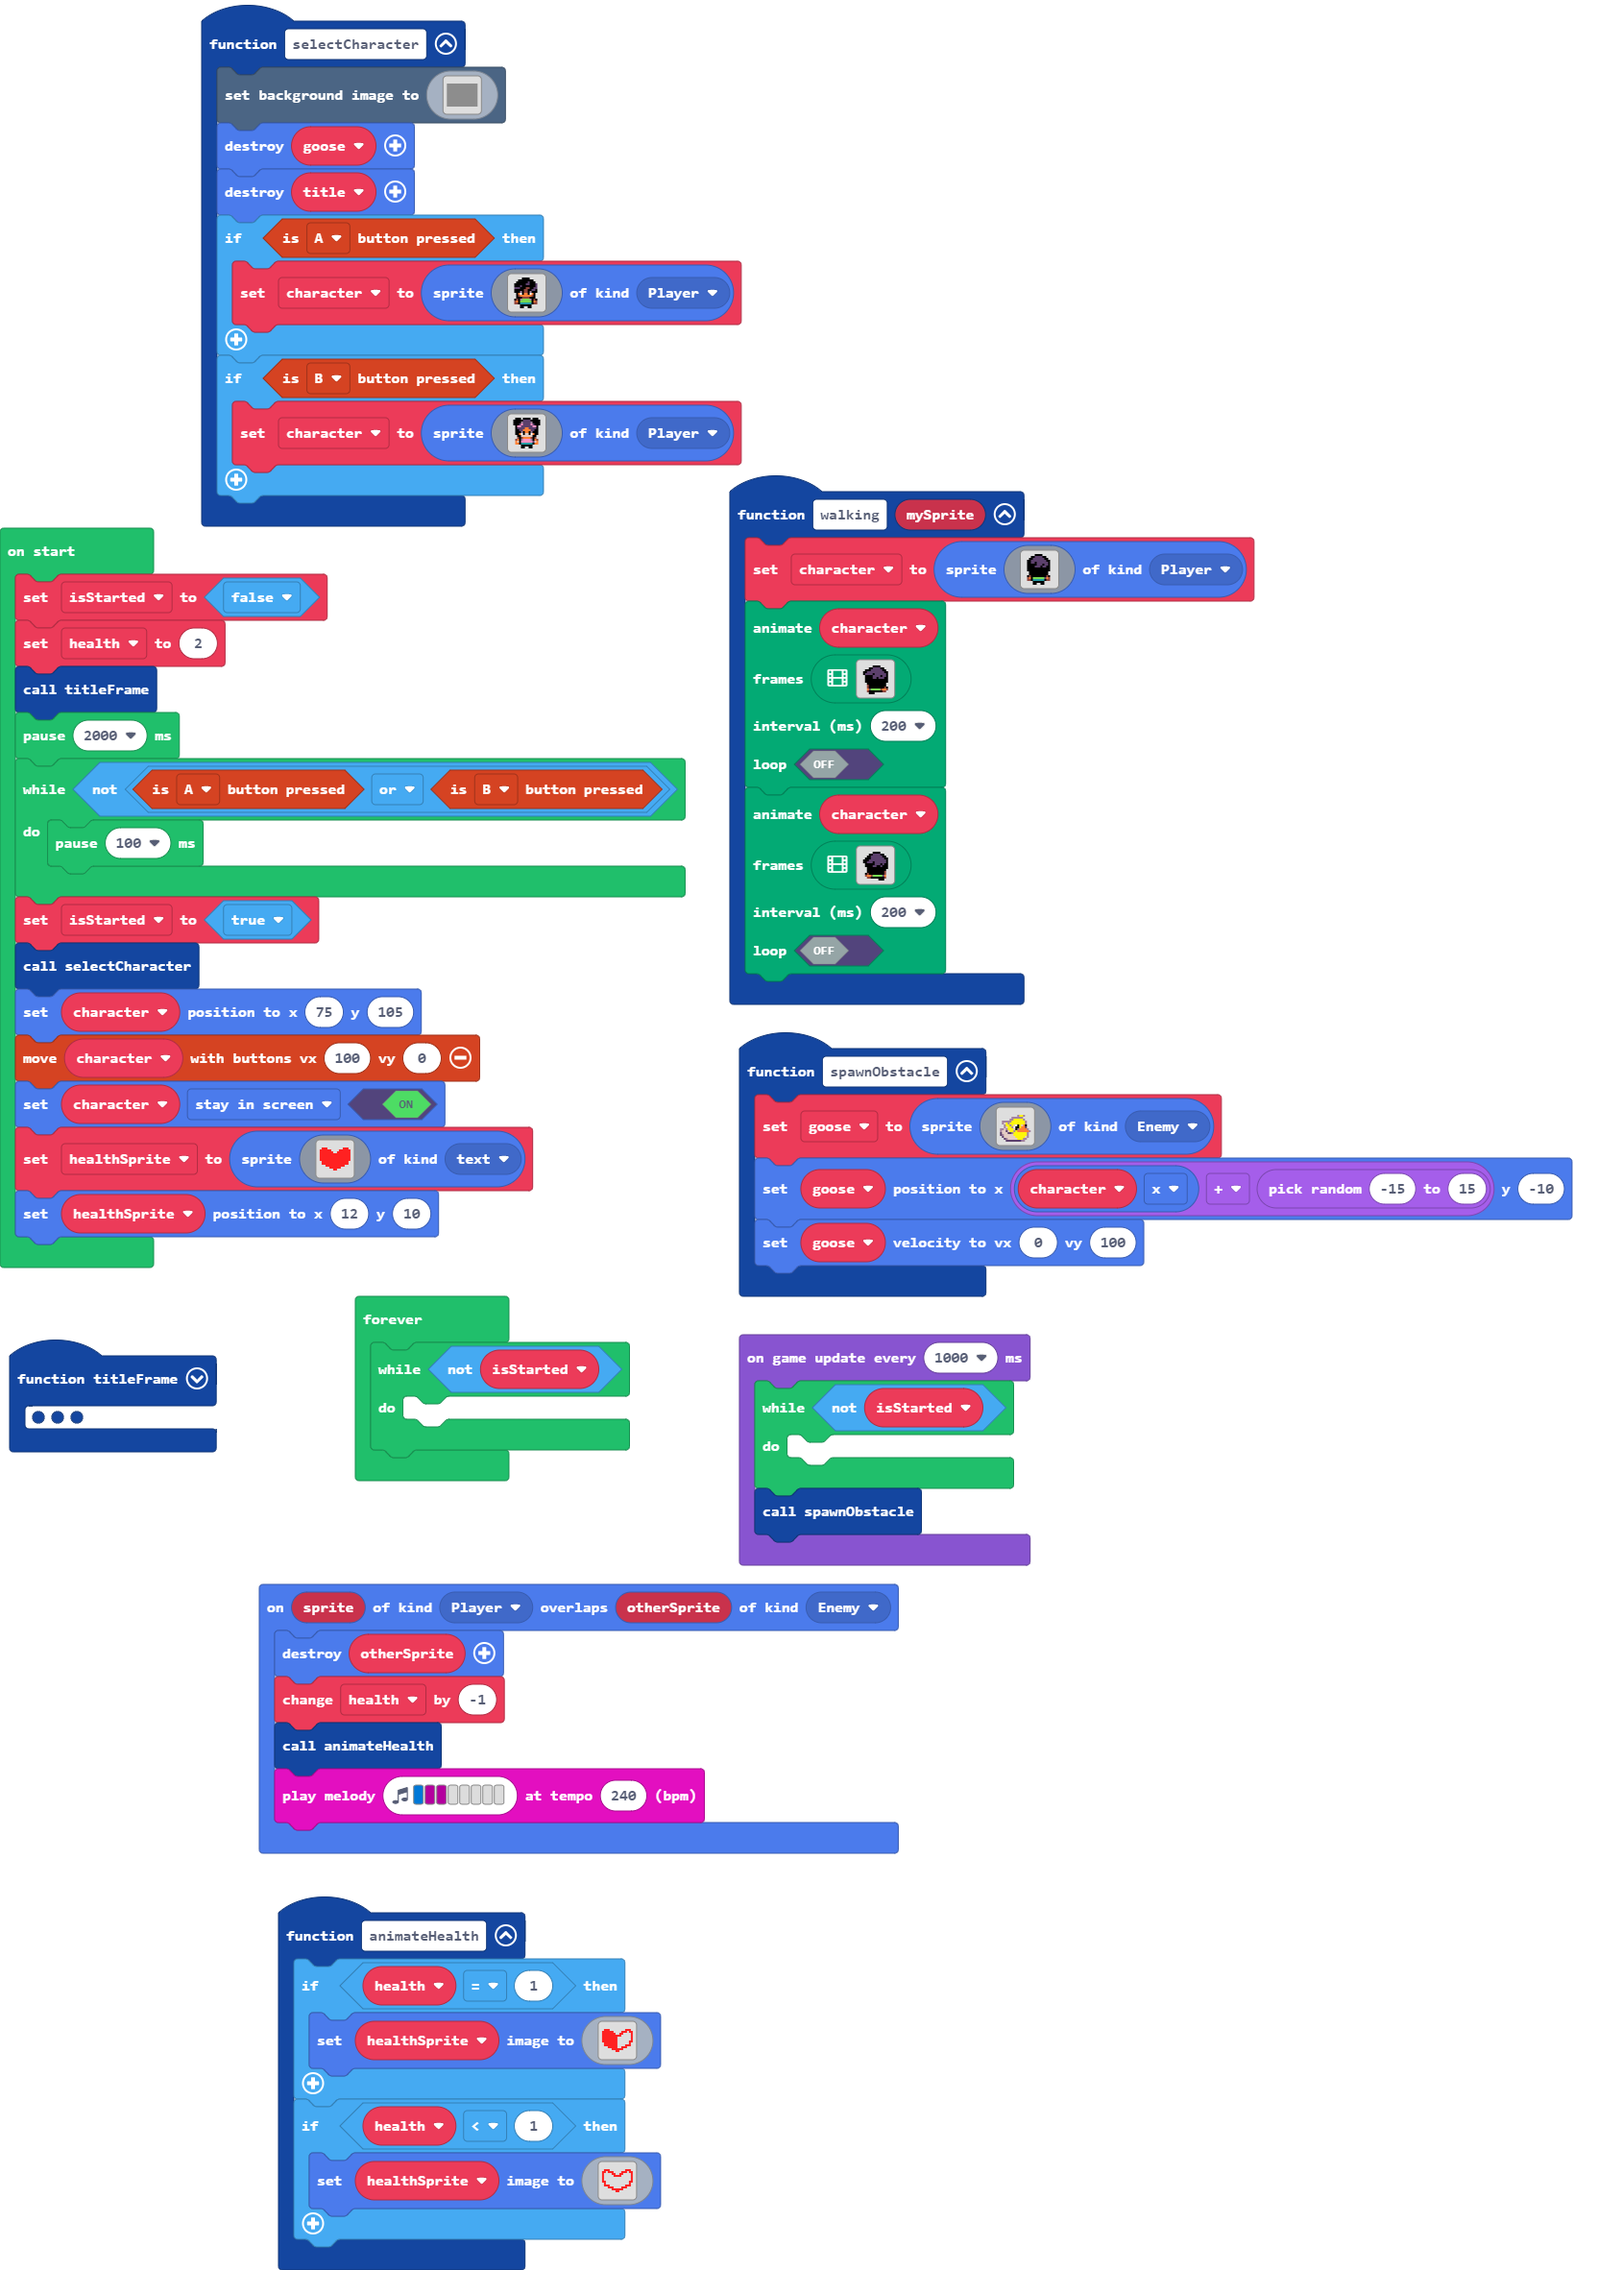
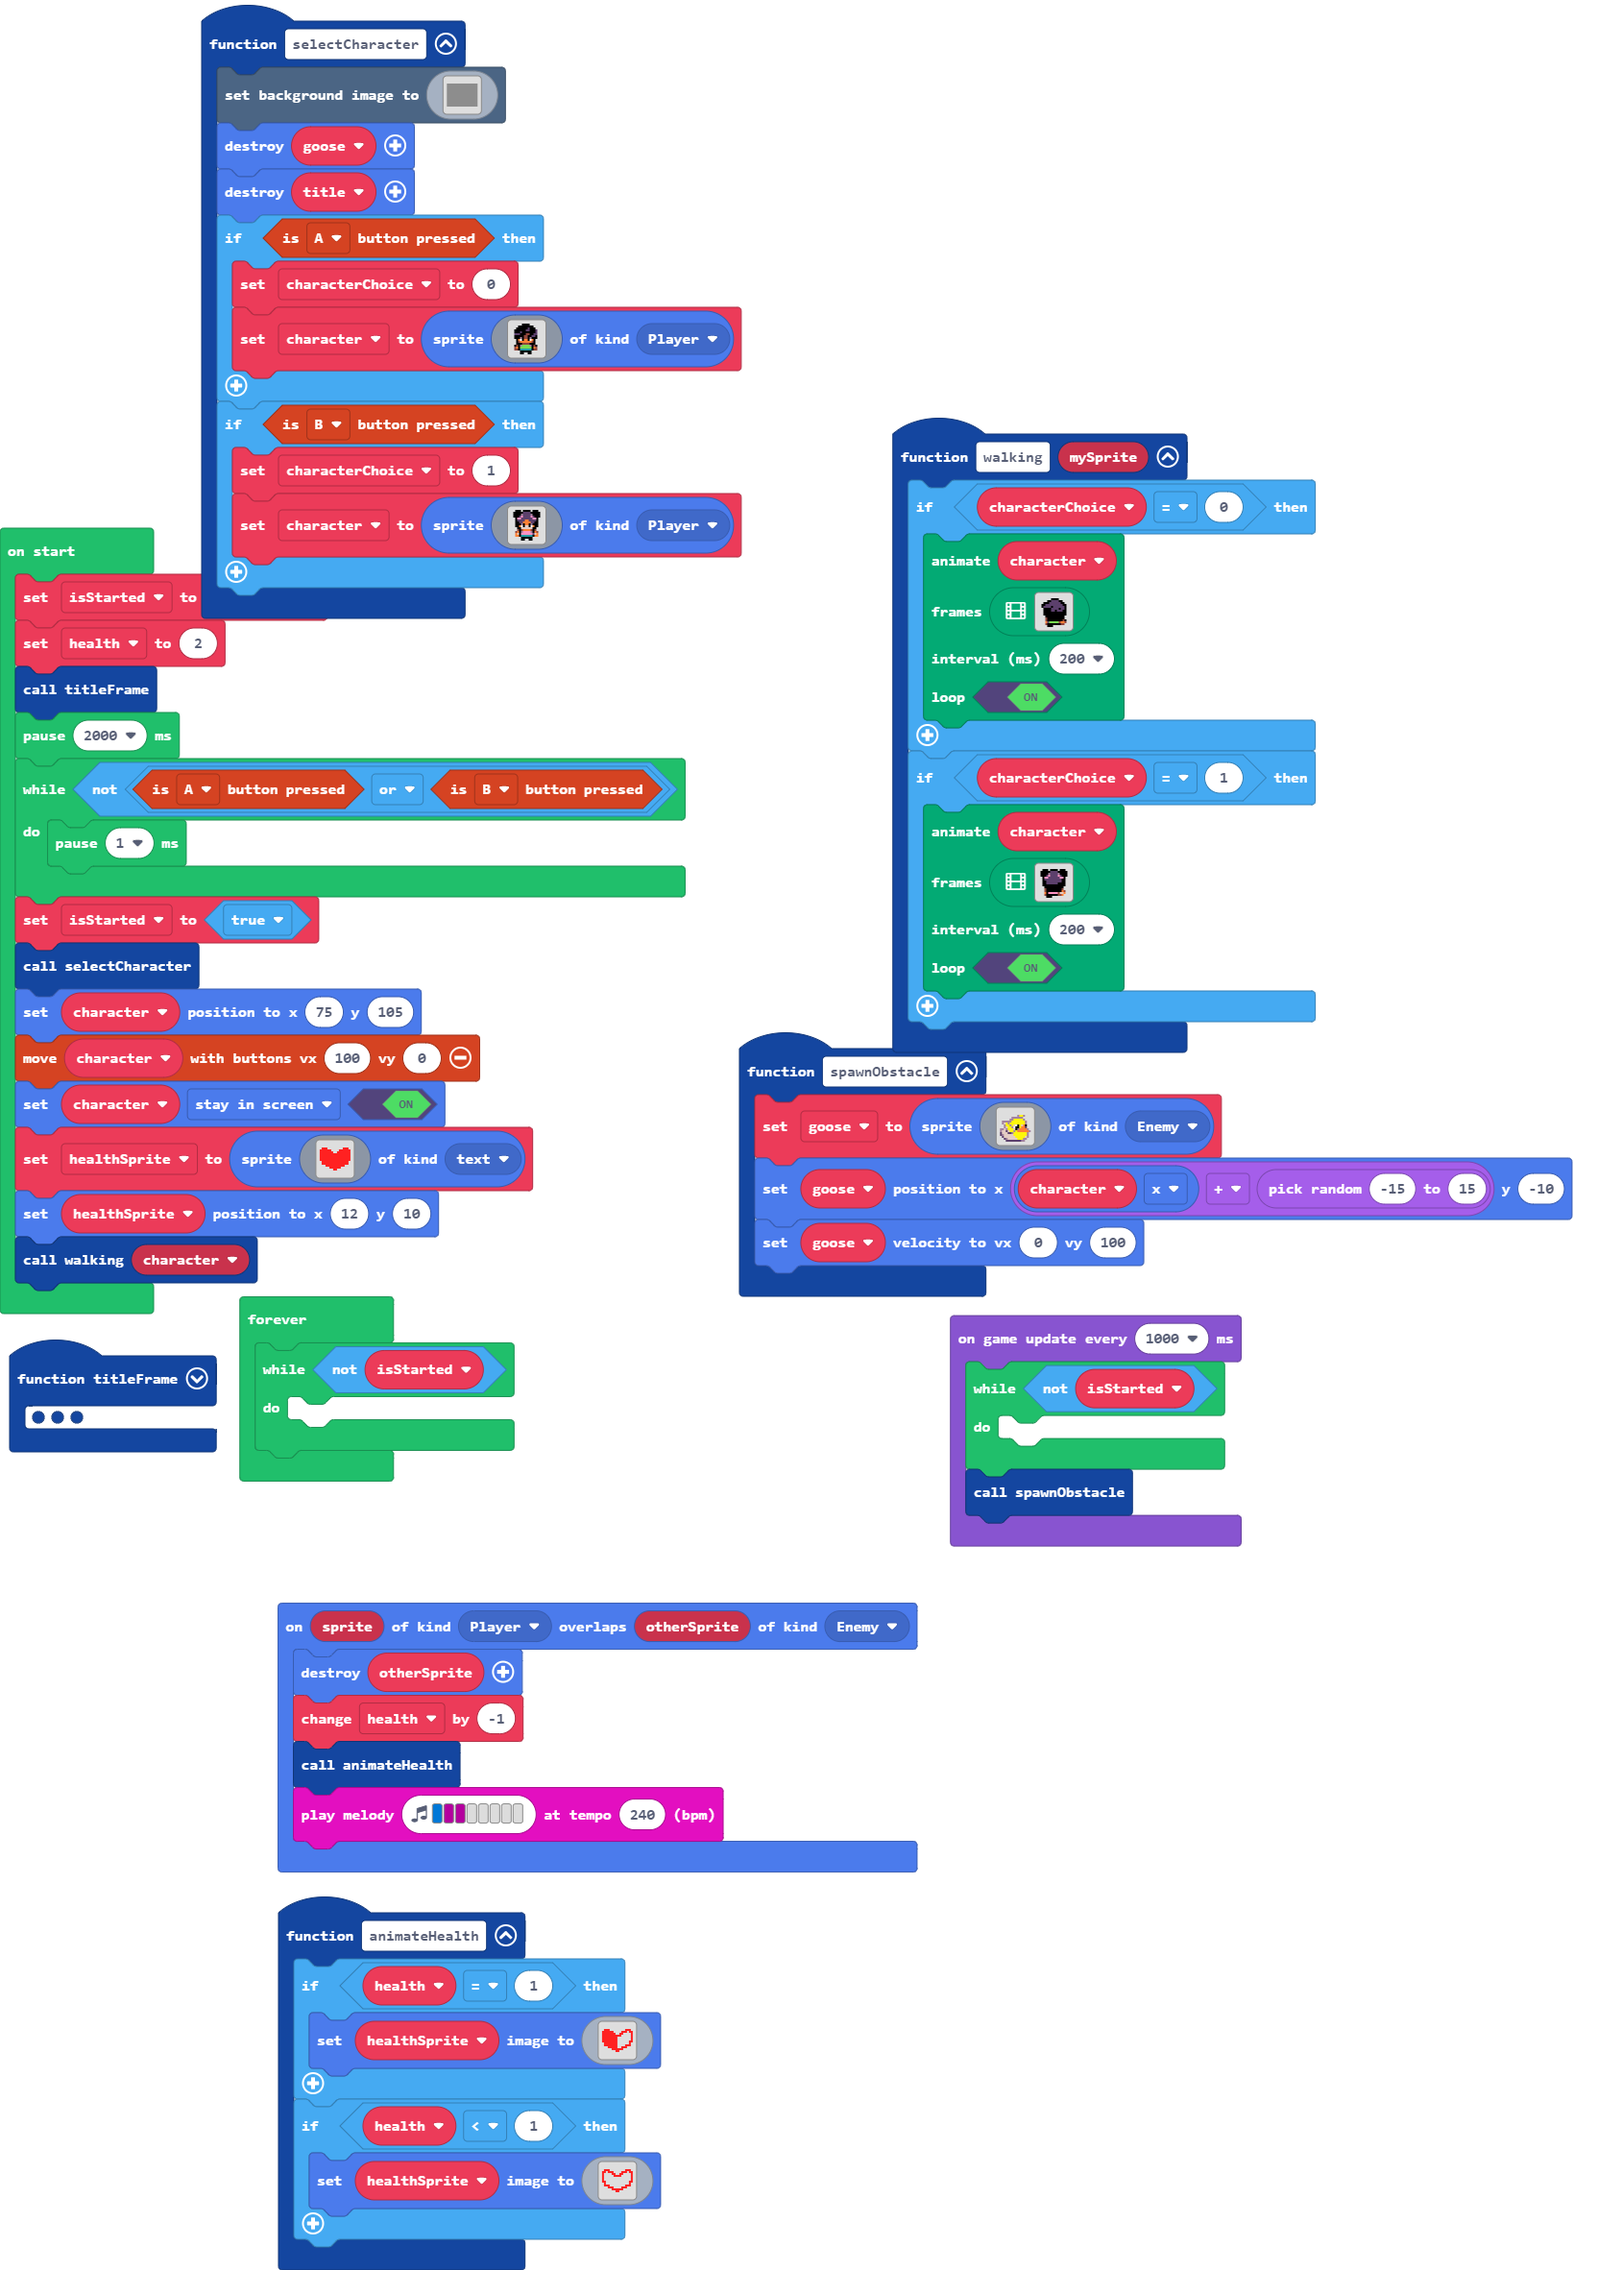
Improve character selection and fix walking animation

Changed region(s): [[0.1231, 0.0926, 0.8313, 0.4632], [0.0, 0.525, 0.7697, 0.8338], [0.0924, 0.3397, 0.1231, 0.4014]]

diff --git a/main.ts b/main.ts
@@ -132,6 +132,7 @@ function selectCharacter () {
     goose.destroy()
     title.destroy()
     if (controller.A.isPressed()) {
+        characterChoice = 0
         character = sprites.create(img`
             . . . . f f f f . . . . . 
             . . f f f f f f f f . . . 
@@ -152,6 +153,7 @@ function selectCharacter () {
             `, SpriteKind.Player)
     }
     if (controller.B.isPressed()) {
+        characterChoice = 1
         character = sprites.create(img`
             . f f f . f f f f . f f f . 
             f f f f f c c c c f f f f f 
@@ -237,70 +239,90 @@ function spawnObstacle () {
     goose.setVelocity(0, 100)
 }
 function walking (mySprite: Sprite) {
-    character = sprites.create(img`
-        . . . . f f f f . . . . . 
-        . . f f c c c c f f . . . 
-        . f f c c c c c c f f . . 
-        f f c c c c c c c c f f . 
-        f f c c f c c c c c c f . 
-        f f f f f c c c f c c f . 
-        f f f f c c c f c c f f . 
-        f f f f f f f f f f f f . 
-        f f f f f f f f f f f f . 
-        . f f f f f f f f f f . . 
-        . f f f f f f f f f f . . 
-        f e f f f f f f f f e f . 
-        e 4 f 7 7 7 7 7 7 c 4 e . 
-        e e f 6 6 6 6 6 6 f e e . 
-        . . . f f f f f f . . . . 
-        . . . f f . . f f . . . . 
-        `, SpriteKind.Player)
-    animation.runImageAnimation(
-    character,
-    [img`
-        . . . . . . . . . . . . . 
-        . . . . . f f f f . . . . 
-        . . . f f c c c c f f . . 
-        . f f f c c c c c c f f . 
-        f f c c c c c c c c c f f 
-        f c c c c f c c c c c c f 
-        . f f f f c c c c f c c f 
-        . f f f f c c f c c c f f 
-        . f f f f f f f f f f f f 
-        . f f f f f f f f f f f f 
-        . . f f f f f f f f f f . 
-        . . e f f f f f f f f f . 
-        . . e f f f f f f f f e f 
-        . . 4 c 7 7 7 7 7 e 4 4 e 
-        . . e f f f f f f f e e . 
-        . . . f f f . . . . . . . 
-        `],
-    200,
-    false
-    )
-    animation.runImageAnimation(
-    character,
-    [img`
-        . . . . . . . . . . . . . 
-        . . . . . f f f f . . . . 
-        . . . f f c c c c f f . . 
-        . . f f c c c c c c f f . 
-        . f f f c c c c c c c f f 
-        f f f c c c c c c c c c f 
-        f f c c c f c c c c c c f 
-        . f f f f f c c c f c f f 
-        . f f f f c c f f c f f f 
-        . . f f f f f f f f f f f 
-        . . f f f f f f f f f f . 
-        . . f f f f f f f f f e . 
-        . f e f f f f f f f f e . 
-        . e 4 4 e 7 7 7 7 7 c 4 . 
-        . . e e f f f f f f f e . 
-        . . . . . . . . f f f . . 
-        `],
-    200,
-    false
-    )
+    if (characterChoice == 0) {
+        animation.runImageAnimation(
+        character,
+        [img`
+            . . . . . . . . . . . . . 
+            . . . . . f f f f . . . . 
+            . . . f f c c c c f f . . 
+            . f f f c c c c c c f f . 
+            f f c c c c c c c c c f f 
+            f c c c c f c c c c c c f 
+            . f f f f c c c c f c c f 
+            . f f f f c c f c c c f f 
+            . f f f f f f f f f f f f 
+            . f f f f f f f f f f f f 
+            . . f f f f f f f f f f . 
+            . . e f f f f f f f f f . 
+            . . e f f f f f f f f e f 
+            . . 4 c 7 7 7 7 7 e 4 4 e 
+            . . e f f f f f f f e e . 
+            . . . f f f . . . . . . . 
+            `,img`
+            . . . . . . . . . . . . . 
+            . . . . . f f f f . . . . 
+            . . . f f c c c c f f . . 
+            . . f f c c c c c c f f . 
+            . f f f c c c c c c c f f 
+            f f f c c c c c c c c c f 
+            f f c c c f c c c c c c f 
+            . f f f f f c c c f c f f 
+            . f f f f c c f f c f f f 
+            . . f f f f f f f f f f f 
+            . . f f f f f f f f f f . 
+            . . f f f f f f f f f e . 
+            . f e f f f f f f f f e . 
+            . e 4 4 e 7 7 7 7 7 c 4 . 
+            . . e e f f f f f f f e . 
+            . . . . . . . . f f f . . 
+            `],
+        200,
+        true
+        )
+    }
+    if (characterChoice == 1) {
+        animation.runImageAnimation(
+        character,
+        [img`
+            . . . . . . . . . . . . . . 
+            . f f f . f f f f . f f f . 
+            f f f f f c c c c f f f f f 
+            f f f f b c c c c b f f f f 
+            f f f c 3 c c c c 3 c f f f 
+            . f 3 3 c c c c c c 3 3 f . 
+            . f c c c c c c c c c f f . 
+            . f f c c c c c c c c f f . 
+            . f f c c c c c c f f f f . 
+            . f f f f f f f f f f f f . 
+            . . f f f f f f f f f f . . 
+            . . e f f f f f f f f e . . 
+            . . e f f f f f f f f 4 e . 
+            . . 4 f 3 3 3 3 3 e d d 4 . 
+            . . e f f f f f f e e 4 . . 
+            . . . f f f . . . . . . . . 
+            `,img`
+            . . . . . . . . . . . . . . 
+            . f f f . f f f f . f f f . 
+            f f f f f c c c c f f f f f 
+            f f f f b c c c c b f f f f 
+            f f f c 3 c c c c 3 c f f f 
+            . f 3 3 c c c c c c 3 3 f . 
+            . f f c c c c c c c c c f . 
+            . f f c c c c c c c c f f . 
+            . f f f f c c c c c c f f . 
+            . f f f f f f f f f f f f . 
+            . . f f f f f f f f f f . . 
+            . . e f f f f f f f f e . . 
+            . e 4 f f f f f f f f e . . 
+            . 4 d d e 3 3 3 3 3 f 4 . . 
+            . . 4 e e f f f f f f e . . 
+            . . . . . . . . f f f . . . 
+            `],
+        200,
+        true
+        )
+    }
 }
 sprites.onOverlap(SpriteKind.Player, SpriteKind.Enemy, function (sprite, otherSprite) {
     otherSprite.destroy()
@@ -617,6 +639,7 @@ function titleFrame () {
     controller.startLightAnimation(light.rainbowAnimation, 500)
     music.baDing.play()
 }
+let characterChoice = 0
 let title: Sprite = null
 let goose: Sprite = null
 let healthSprite: Sprite = null
@@ -627,7 +650,7 @@ health = 2
 titleFrame()
 pause(2000)
 while (!(controller.A.isPressed() || controller.B.isPressed())) {
-    pause(100)
+    pause(1)
 }
 isStarted = true
 selectCharacter()
@@ -653,6 +676,7 @@ healthSprite = sprites.create(img`
     . . . . . . . . . . . . . . . . 
     `, SpriteKind.text)
 healthSprite.setPosition(12, 10)
+walking(character)
 game.onUpdateInterval(1000, function () {
     while (!(isStarted)) {
     	
